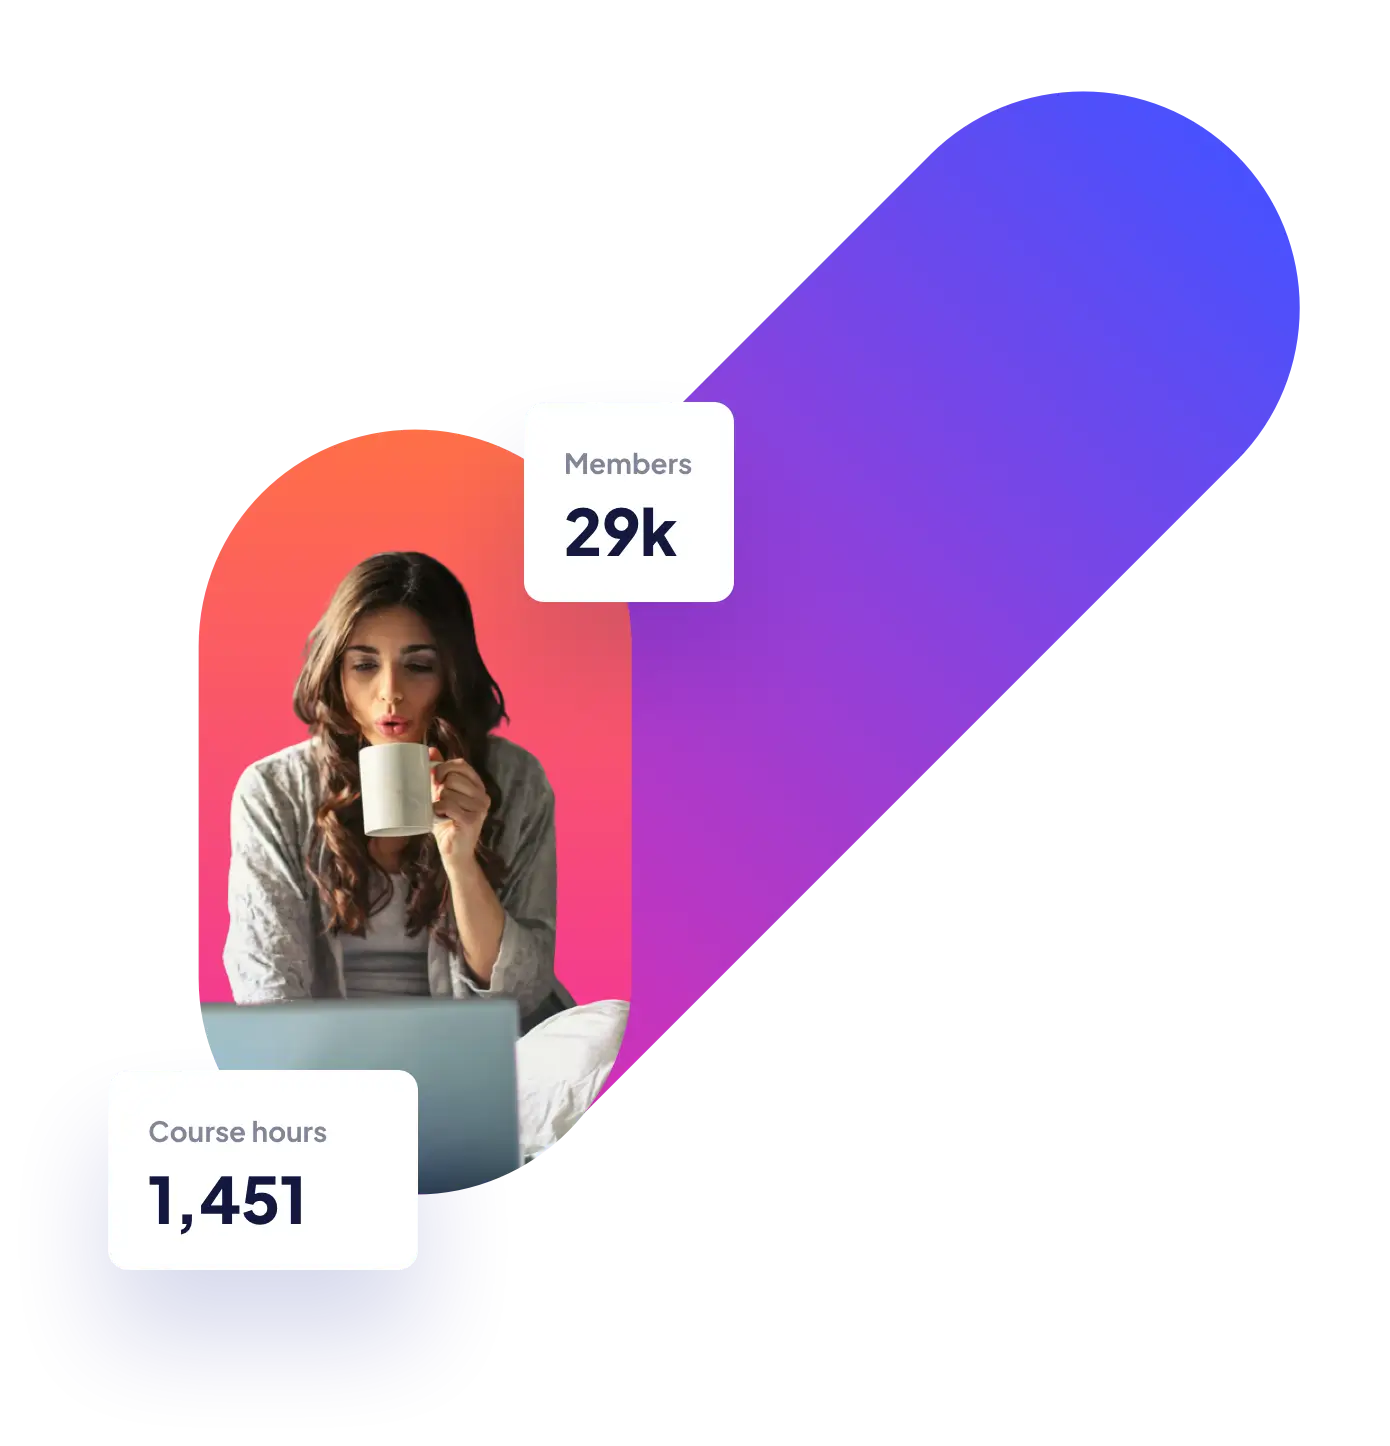
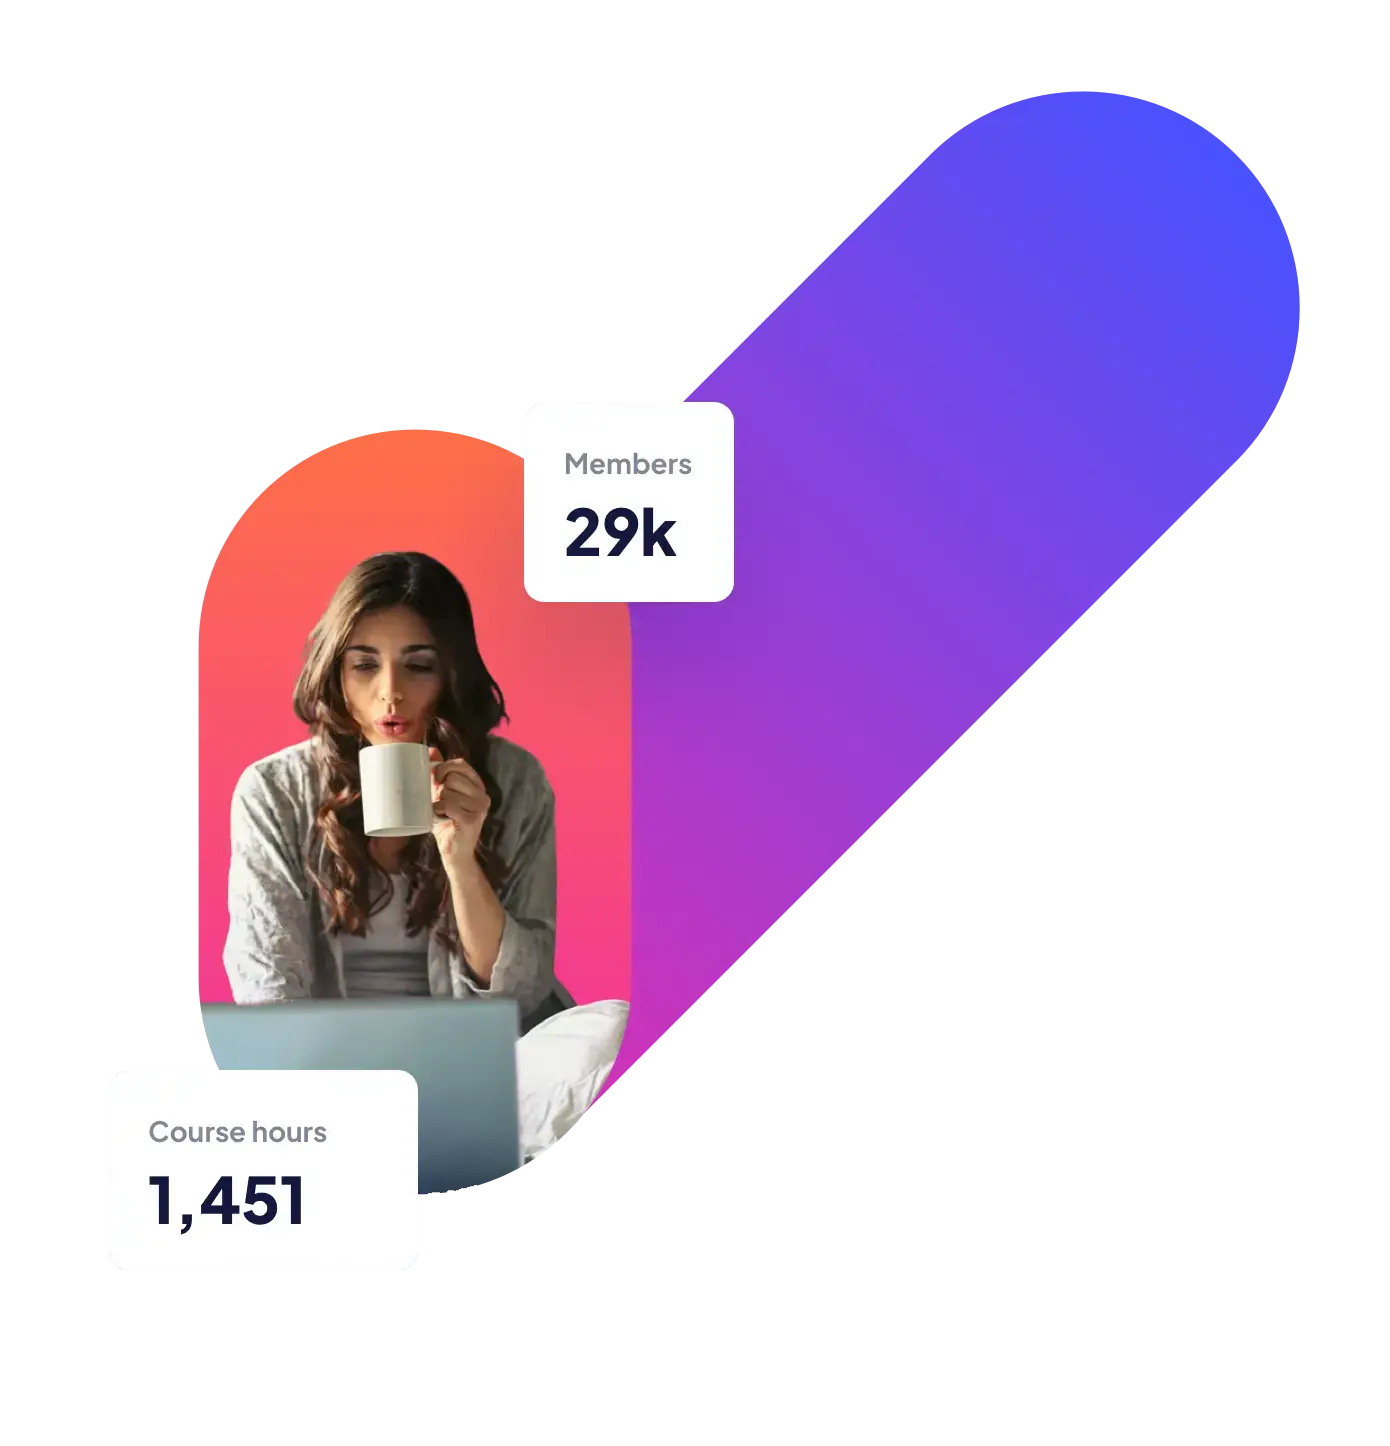
tablet and desktop layout

Changed region(s): [[0.0928, 0.8714, 0.2784, 0.9336]]

diff --git a/style.css b/style.css
@@ -79,6 +79,7 @@ body {
   align-items: center;
   margin-block-start: var(--padding_400);
   padding-inline: var(--padding_400);
+  
 }
 
 .logo {
@@ -174,6 +175,7 @@ body {
   background-color: var(--white);
   padding-inline: var(--padding_800);
   border-radius: 0.625rem;
+  display: grid;
 }
 
 .card-img {
@@ -205,6 +207,7 @@ body {
   margin-block-start: var(--padding_600);
   margin-block-end: var(--padding_900);
   transition: color 150ms;
+  align-self: end;
 }
 
 .card-link:hover,
@@ -213,7 +216,6 @@ body {
 }
 
 .main-footer {
-  width: initial;
   display: flex;
   justify-content: space-between;
   align-items: center;
@@ -240,4 +242,131 @@ body {
 .main-footer .btn:hover,
 .main-footer .btn:focus-visible {
   background: linear-gradient(to bottom, hsl(237, 98%, 82%), hsl(322, 86%, 77%));
+}
+
+@media screen and (min-width: 768px) {
+  main {
+    overflow-x: hidden;
+  }
+
+  .main-header {
+    position: relative;
+    padding-inline: 2.5rem;
+  }
+
+  .hero-section {
+    display: grid;
+    grid-template-columns: 1.3fr 1fr;
+    padding-inline: 2.5rem;
+    margin-block-start: 6.25rem;
+  }
+
+  .hero-image {
+    position: relative;
+    z-index: -1;
+    right: -50%;
+    top: -20%;
+    transform: scale(2.5);
+  }
+
+  .card-list {
+    grid-template-columns: 1fr 1fr;
+    padding-inline: 2.5rem;
+    gap: 3.5rem 0.6875rem;
+    margin-block-start: 13rem;
+  }
+
+  .main-footer {
+    padding-inline: 2.5rem;
+  }
+}
+
+@media screen and (min-width: 890px) {
+  .hero-image{
+    right: -45%;
+    top: -15%;
+    transform: scale(2.3);
+  }
+}
+
+@media screen and (min-width: 1439px) {
+  .main-header {
+    margin-block-start: var(--padding_600);
+    padding-inline: 10.3125rem;
+  }
+
+  .logo {
+    width: 111.17px;
+  }
+
+  .main-header .btn {
+    font-size: var(--fs_body_m);
+    padding-inline: var(--padding_900);
+  }
+
+  .hero-section {
+    padding-inline: 10.3125rem;
+    margin-block-start: 10.75rem;
+  }
+
+  .hero-title {
+    font-size: var(--fs_hd_xl);
+    line-height: var(--lh_xl);
+  }
+
+  .hero-text {
+    width: 33ch;
+    font-size: var(--fs_body_m);
+    line-height: var(--lh_m);
+    margin-block-start: 1.8125rem;
+  }
+
+  .hero-section .btn {
+    font-size: var(--fs_body_m);
+    padding-inline: var(--padding_900);
+    margin-block-start: 2.5rem;
+  }
+
+  .hero-image {
+    right: -50%;
+    top: -45%;
+    transform: scale(1.9);
+  }
+
+  .card-list {
+    padding-inline: 10.3125rem;
+    grid-template-columns: 1fr 1fr 1fr;
+    gap: 5rem 1.875rem;
+  }
+
+  .card-list .cta {
+    font-size: var(--fs-hd-m);
+    line-height: 2.5rem;
+    padding-block-start: 4rem;
+  }
+
+  .card-subtitle {
+    font-size: var(--fs-hd-s);
+  }
+
+  .card-text {
+    font-size: var(--fs_body_m);
+    line-height: 1.75rem;
+    margin-block-start: var(--padding_600);
+    margin-block-end: 1.5rem;
+  }
+
+  .card-link {
+    margin-block-start: auto;
+  }
+
+  .main-footer {
+    margin-block-start: 8.75rem;
+    padding-inline: 10.3125rem;
+  }
+
+  .main-footer .btn {
+    font-size: var(--fs_body_m);
+    padding-inline: var(--padding_900);
+  }
 }

diff --git a/index.html b/index.html
@@ -19,23 +19,23 @@
     </header>
 
     <section class="hero-section">
-      <h1 class="hero-title">
-        Maximize skill, <br> minimize budget
-      </h1>
-
-      <p class="hero-text">
-        Our modern courses across a range of in-demand skills will give you the knowledge you need to
-        live the life you want.
-      </p>
-
-      <button type="button" class="btn">Get Started</button>
+      <div class="hero-section-content">
+        <h1 class="hero-title">
+          Maximize skill, <br> minimize budget
+        </h1>
+        <p class="hero-text">
+          Our modern courses across a range of in-demand skills will give you the knowledge you need to
+          live the life you want.
+        </p>
+        <button type="button" class="btn">Get Started</button>
+      </div>
 
       <picture aria-hidden="true" class="hero-image">
-        <source srcset="images/image-hero-desktop.webp" type="image/webp" media="(min-width: 1440px)">
-        <source srcset="images/image-hero-desktop.png" type="image/png" media="(min-width: 1440px)">
-        <source srcset="images/image-hero-tablet.webp" type="image/webp" media="(min-width: 768px)">
-        <source srcset="images/image-hero-tablet.png" type="image/png" media="(min-width: 768px)">
-        <img  src="images/image-hero-mobile.png" alt="">
+        <source srcset="images/image-hero-desktop@2x.webp" type="image/webp" media="(min-width: 1440px)">
+        <source srcset="images/image-hero-desktop@2x.png" type="image/png" media="(min-width: 1440px)">
+        <source srcset="images/image-hero-tablet@2x.webp" type="image/webp" media="(min-width: 768px)">
+        <source srcset="images/image-hero-tablet@2x.png" type="image/png" media="(min-width: 768px)">
+        <img  src="images/image-hero-mobile@2x.png" alt="">
       </picture>
       
     </section>
